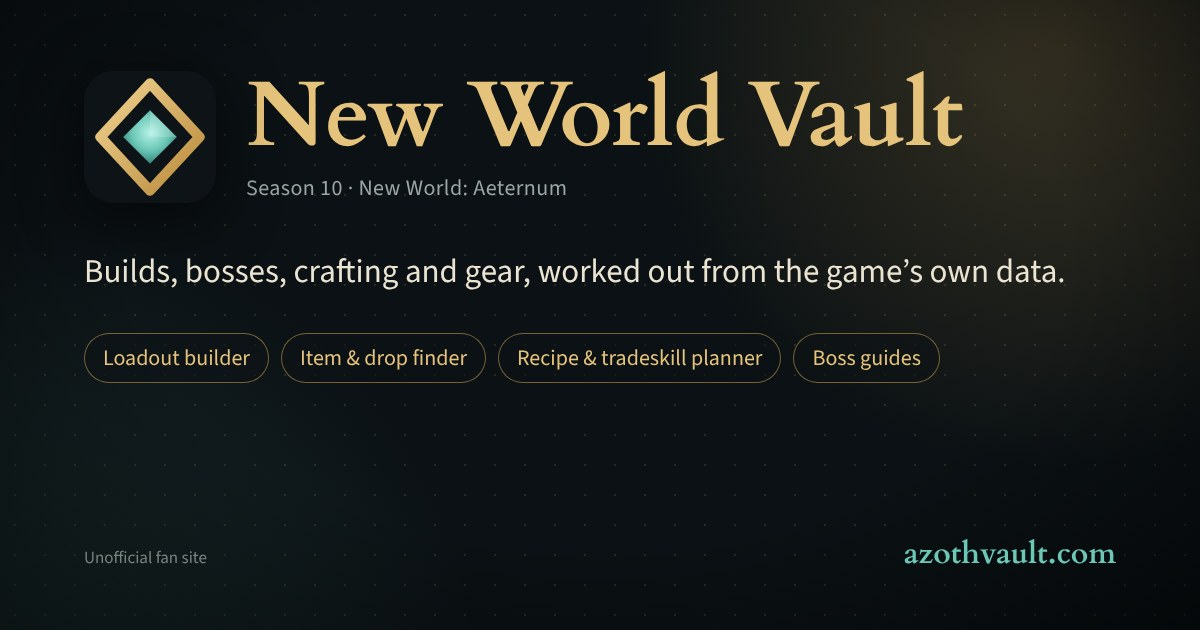
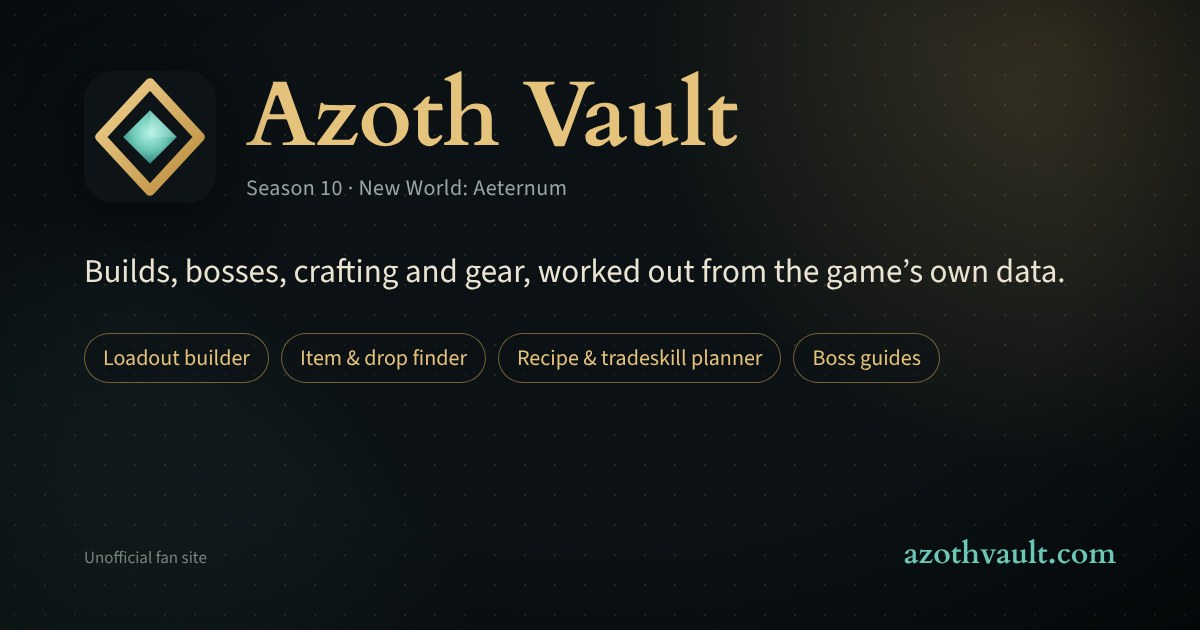
Update 2026-11-28 14:40

Changed region(s): [[0.185, 0.1206, 0.8017, 0.2413]]

diff --git a/app.js b/app.js
@@ -1,5 +1,5 @@
-/* ============ New World vault browser v2 ============ */
-const BUILD_AT = '2026-11-28 13:42';
+/* ============ Azoth Vault browser v2 ============ */
+const BUILD_AT = '2026-11-28 14:35';
 let DATA = {}, META = {}, NAMES = {}, SRC = 'snapshot', SRC_AT = BUILD_AT;
 let current = null, hist = [], recent = [];
 
@@ -447,7 +447,7 @@ function homeHero(){
            :days===1?'The servers close tomorrow, 31 January 2027.':'The servers closed on 31 January 2027. This vault stays up as a record.';
   const again=recent.filter(n=>NAMES[n]&&n!==(typeof SITE!=='undefined'&&SITE.start||'New World Home')).slice(0,5);
   return `<section class="hero">
-    <h1>New World Vault</h1>
+    <h1>Azoth Vault</h1>
     <p class="sub">Builds, bosses, raids and gear for Season 10, worked out from the game's own data.</p>
     <p class="end">${end}</p>
     <div class="tools">
@@ -1964,7 +1964,7 @@ async function checkOwner(){
 }
 async function submitIssueUrl(rec){
   const link=await shareLink(rec);
-  const body=`**Loadout:** ${rec.name}\n**Weapons:** ${rec.g.w1} + ${rec.g.w2}\n**Mode:** ${rec.mode||'(say which mode it is for)'}\n**By:** (your in-game name)\n\nOpen it: ${link}\n\n_Submitted from the New World vault site. The site owner reviews it before it appears in Community loadouts._`;
+  const body=`**Loadout:** ${rec.name}\n**Weapons:** ${rec.g.w1} + ${rec.g.w2}\n**Mode:** ${rec.mode||'(say which mode it is for)'}\n**By:** (your in-game name)\n\nOpen it: ${link}\n\n_Submitted from the Azoth Vault site. The site owner reviews it before it appears in Community loadouts._`;
   return `https://github.com/${GH.owner}/${GH.repo}/issues/new?title=${encodeURIComponent('[Loadout] '+rec.name)}&body=${encodeURIComponent(body)}`;
 }
 async function listSubmissions(){
@@ -2458,10 +2458,10 @@ async function peekBuild(name, tab){
 
 /* ================= owner content + customise panel ================= */
 let CDB=null, CUSER=null, IS_OWNER=false, CMODE='loading';   // 'db' | 'local' | 'loading'
-const DEFAULT_SITE={brand:'New World Vault', accent:'#cfa557', theme:'dark', font:'m', width:'normal',
+const DEFAULT_SITE={brand:'Azoth Vault', accent:'#cfa557', theme:'dark', font:'m', width:'normal',
   hidden:[], order:[], start:'New World Home', icons:true};
 let SITE=Object.assign({}, DEFAULT_SITE, LS.get('nw_site',{}));
-if(SITE.brand==='New World · S10 Nighthaven'||SITE.brand==='New World vault') SITE.brand=DEFAULT_SITE.brand;   // the old default title
+if(SITE.brand==='New World · S10 Nighthaven'||SITE.brand==='New World vault'||SITE.brand==='New World Vault') SITE.brand=DEFAULT_SITE.brand;   // the old default title
 let CPAGES={}, CADD={}, COVR={};
 /* ---- draft mode: the owner's changes wait in drafts/ (only the owner can read them) until "Publish to live" ---- */
 let DRAFT_ON=LS.get('nw_draftmode', true), DRAFTS={}, LIVE={pages:{},overrides:{},addenda:{},site:null};
@@ -2533,7 +2533,7 @@ function applySite(){
   document.body.classList.remove('fs-s','fs-l'); if(SITE.font!=='m') document.body.classList.add('fs-'+SITE.font);
   document.body.classList.remove('w-wide','w-full'); if(SITE.width!=='normal') document.body.classList.add('w-'+SITE.width);
   document.body.classList.toggle('noicons', !SITE.icons);
-  const b=document.querySelector('.brand'); if(b){ const t=(SITE.brand==='New World · S10 Nighthaven'||SITE.brand==='New World vault'?'':SITE.brand)||DEFAULT_SITE.brand;
+  const b=document.querySelector('.brand'); if(b){ const t=(SITE.brand==='New World · S10 Nighthaven'||SITE.brand==='New World vault'||SITE.brand==='New World Vault'?'':SITE.brand)||DEFAULT_SITE.brand;
     b.innerHTML=esc(t)+(t===DEFAULT_SITE.brand?' <small>Season 10 Nighthaven</small>':'')+`<span class="sstag" id="sstag">${esc(window.NWSEASON?NWSEASON.n:'')}</span>`; }
 }
 async function saveSite(next){
@@ -3708,7 +3708,7 @@ function viewChangelog(){
   if(!clAdmin()) return '<h1>Changelog</h1><p class="lede">The changelog is only for the site\'s admins. Log in with Discord on an admin or editor account to see it.</p>';
   if(CLTXT===null){ edApi({op:'changelog'}).then(d=>{ CLTXT=d.text||''; }).catch(e=>{ CLTXT=''; CLERR=e.message; }).finally(()=>{ if(current&&current.v==='changelog') openView('changelog',false); });
     return '<h1>Changelog</h1><p class="dimtx">Loading&hellip;</p>'; }
-  const body=CLTXT.replace(/^New World Vault changelog\n=+\n[^\n]*\n+/,'').trim();
+  const body=CLTXT.replace(/^(?:New World|Azoth) Vault changelog\n=+\n[^\n]*\n+/,'').trim();
   const blocks=body?body.split(/\n\s*\n/).map(b=>b.split('\n')).filter(b=>b[0].trim()):[];
   return `<h1>Changelog</h1>
   <p class="lede">Every update to the website that went live, newest first: edits by the site owner and approved updates from editors. Only admins and editors can see this page.</p>
@@ -3802,7 +3802,7 @@ function edDiffHTML(a,b){
 function edAIPrompt(isNew, path, title, body){
   const isBuild=path.startsWith('Builds');
   const names=Object.keys(META).filter(p=>!META[p].custom&&(edAreaOf(p)||/^1 References\//.test(p))).map(p=>META[p].name).sort();
-  return `I'm editing a page for the New World Vault, a fan website for New World: Aeternum (Season 10). ${isNew?`Write a new page called "${title||'(page name)'}" for the folder "${path}".`:'Rewrite the page below with my changes.'} Give me back ONLY the finished page, in one markdown code block, ready to paste.
+  return `I'm editing a page for the Azoth Vault, a fan website for New World: Aeternum (Season 10). ${isNew?`Write a new page called "${title||'(page name)'}" for the folder "${path}".`:'Rewrite the page below with my changes.'} Give me back ONLY the finished page, in one markdown code block, ready to paste.
 
 My changes: [DESCRIBE WHAT YOU WANT ADDED OR CHANGED HERE]
 

diff --git a/index.html b/index.html
@@ -4,7 +4,7 @@
 <meta name="viewport" content="width=device-width,initial-scale=1">
 <meta name="nw-site" content="https://azothvault.com/">
 <script>(function(){var m=document.querySelector('meta[name="nw-site"]'),s=m&&m.content,h=location.hostname;if(s&&(/github\.io$/.test(h)||h==='project-azoth-vault.pages.dev'||h==='www.azothvault.com'))location.replace(s+location.hash);})();</script>
-<title>New World Vault: Season 10 builds, bosses and crafting</title>
+<title>Azoth Vault: New World Season 10 builds, bosses and crafting</title>
 <meta name="description" content="Builds, bosses, crafting and gear for New World: Aeternum Season 10, worked out from the game's own data. Loadout builder, item and drop finder, recipe and tradeskill planners.">
 <link rel="canonical" href="https://azothvault.com/">
 <link rel="icon" href="favicon.svg" type="image/svg+xml">
@@ -13,16 +13,16 @@
 <link rel="manifest" href="site.webmanifest">
 <meta name="theme-color" content="#0d1316">
 <meta property="og:type" content="website">
-<meta property="og:site_name" content="New World Vault">
-<meta property="og:title" content="New World Vault: Season 10 builds, bosses and crafting">
+<meta property="og:site_name" content="Azoth Vault">
+<meta property="og:title" content="Azoth Vault: New World Season 10 builds, bosses and crafting">
 <meta property="og:description" content="Builds, bosses, crafting and gear for New World: Aeternum, worked out from the game's own data.">
 <meta property="og:url" content="https://azothvault.com/">
 <meta property="og:image" content="https://azothvault.com/og-image.jpg">
 <meta property="og:image:width" content="1200">
 <meta property="og:image:height" content="630">
-<meta property="og:image:alt" content="New World Vault: builds, bosses, crafting and gear for New World: Aeternum">
+<meta property="og:image:alt" content="Azoth Vault: builds, bosses, crafting and gear for New World: Aeternum">
 <meta name="twitter:card" content="summary_large_image">
-<link rel="stylesheet" href="style.css?v=202611281426">
+<link rel="stylesheet" href="style.css?v=202611281440">
 <script>
 /* seasonal looks: change the dates here when the in-game events move (month-day, both days included) */
 window.NWSEASONS=[
@@ -43,7 +43,7 @@ nwApplySeason();
 </head><body>
 <header>
   <div class="bar1">
-    <span class="brand" data-note="New World Home" role="link" tabindex="0" style="cursor:pointer">New World Vault <small>Season 10 Nighthaven</small><span class="sstag" id="sstag"></span></span>
+    <span class="brand" data-note="New World Home" role="link" tabindex="0" style="cursor:pointer">Azoth Vault <small>Season 10 Nighthaven</small><span class="sstag" id="sstag"></span></span>
     <button id="back" title="Back">&larr; Back</button>
     <input id="q" placeholder="Search everything&hellip;   (press / )" autocomplete="off">
     <span id="acct"></span>
@@ -52,10 +52,10 @@ nwApplySeason();
 </header>
 <main id="main"><p class="lede">Loading&hellip;</p></main>
 <footer class="sitefoot"><div class="fin">
-  <div class="fb"><img src="favicon.svg" alt=""><div>New World Vault<small>azothvault.com</small></div></div>
+  <div class="fb"><img src="favicon.svg" alt=""><div>Azoth Vault<small>azothvault.com</small></div></div>
   <div class="fd">An unofficial fan site, not made, endorsed or supported by Amazon Games. New World and New World: Aeternum are trademarks of Amazon.com, Inc. or its affiliates.</div>
   <nav aria-label="Site"><a href="terms.html">Terms</a><a href="privacy.html">Privacy</a><a href="mailto:contact@azothvault.com">Contact</a><a href="https://github.com/NoxieProxie/azothvault" rel="noopener">GitHub</a><a href="https://github.com/NoxieProxie/azothvault/security/policy" rel="noopener">Security</a></nav>
 </div></footer>
 <script>nwApplySeason()</script>
-<script src="app.js?v=202611281426"></script>
+<script src="app.js?v=202611281440"></script>
 </body></html>

diff --git a/privacy.html b/privacy.html
@@ -1,15 +1,15 @@
 <!DOCTYPE html>
 <html lang="en"><head>
 <meta charset="utf-8"><meta name="viewport" content="width=device-width,initial-scale=1">
-<title>Privacy Policy · New World Vault</title>
+<title>Privacy Policy · Azoth Vault</title>
 <link rel="stylesheet" href="legal.css">
 </head><body>
-<header><a href="./">New World Vault</a></header>
+<header><a href="./">Azoth Vault</a></header>
 <main>
 <h1>Privacy Policy</h1>
 <p class="date">Last updated 28 November 2026</p>
 
-<p>This policy covers the New World Vault website (azothvault.com) and its Discord app and bot, called “the vault” below. The vault is a free fan project run by one person. It is not a company, and it is not run by or connected to Amazon Games or Discord.</p>
+<p>This policy covers the Azoth Vault website (azothvault.com) and its Discord app and bot, called “the vault” below. The vault is a free fan project run by one person. It is not a company, and it is not run by or connected to Amazon Games or Discord.</p>
 
 <div class="note">The short version: you can read the whole site without logging in, and nothing about you is collected. If you log in with Discord, the vault learns your Discord ID, username, display name and avatar, and nothing else from your account. Your favourites are stored against your Discord ID. Nothing is sold or used for advertising, and there are no trackers or adverts.</div>
 

diff --git a/terms.html b/terms.html
@@ -1,15 +1,15 @@
 <!DOCTYPE html>
 <html lang="en"><head>
 <meta charset="utf-8"><meta name="viewport" content="width=device-width,initial-scale=1">
-<title>Terms of Service · New World Vault</title>
+<title>Terms of Service · Azoth Vault</title>
 <link rel="stylesheet" href="legal.css">
 </head><body>
-<header><a href="./">New World Vault</a></header>
+<header><a href="./">Azoth Vault</a></header>
 <main>
 <h1>Terms of Service</h1>
 <p class="date">Last updated 27 November 2026</p>
 
-<p>These terms cover the New World Vault website (azothvault.com) and its Discord app and bot, called “the vault” below. By using the vault you agree to them. If you don't agree, please don't use it.</p>
+<p>These terms cover the Azoth Vault website (azothvault.com) and its Discord app and bot, called “the vault” below. By using the vault you agree to them. If you don't agree, please don't use it.</p>
 
 <h2>What the vault is</h2>
 <p>The vault is a free, unofficial fan project for the game New World: Aeternum. It collects builds, boss notes, gear and crafting information, and offers tools such as a loadout builder, calculators, favourites and a Discord bot. It is run by one person in their spare time.</p>

diff --git a/README.md b/README.md
@@ -1,8 +1,8 @@
-# New World Vault
+# Azoth Vault
 
 **[azothvault.com](https://azothvault.com)** · A free fan site for **New World: Aeternum** (Season 10): builds, loadouts, bosses, expeditions, crafting and tradeskill planning in one place.
 
-![New World Vault home page](screenshot.png)
+![Azoth Vault home page](screenshot.png)
 
 ## What's on the site
 
@@ -28,4 +28,4 @@
 
 ## Disclaimer
 
-New World Vault is an unofficial fan site. It is not made, endorsed or supported by Amazon Games. New World and New World: Aeternum are trademarks of Amazon.com, Inc. or its affiliates. Game images and data belong to their owners.
+Azoth Vault is an unofficial fan site. It is not made, endorsed or supported by Amazon Games. New World and New World: Aeternum are trademarks of Amazon.com, Inc. or its affiliates. Game images and data belong to their owners.

diff --git a/CONTRIBUTING.md b/CONTRIBUTING.md
@@ -1,6 +1,6 @@
 # Contributing
 
-New World Vault is run by one person, so the easiest way to help is to tell us what's wrong or missing.
+Azoth Vault is run by one person, so the easiest way to help is to tell us what's wrong or missing.
 
 ## Spotted wrong data?
 

diff --git a/SECURITY.md b/SECURITY.md
@@ -1,6 +1,6 @@
 # Security policy
 
-Thanks for helping keep New World Vault and its visitors safe.
+Thanks for helping keep Azoth Vault and its visitors safe.
 
 ## Reporting a vulnerability
 
